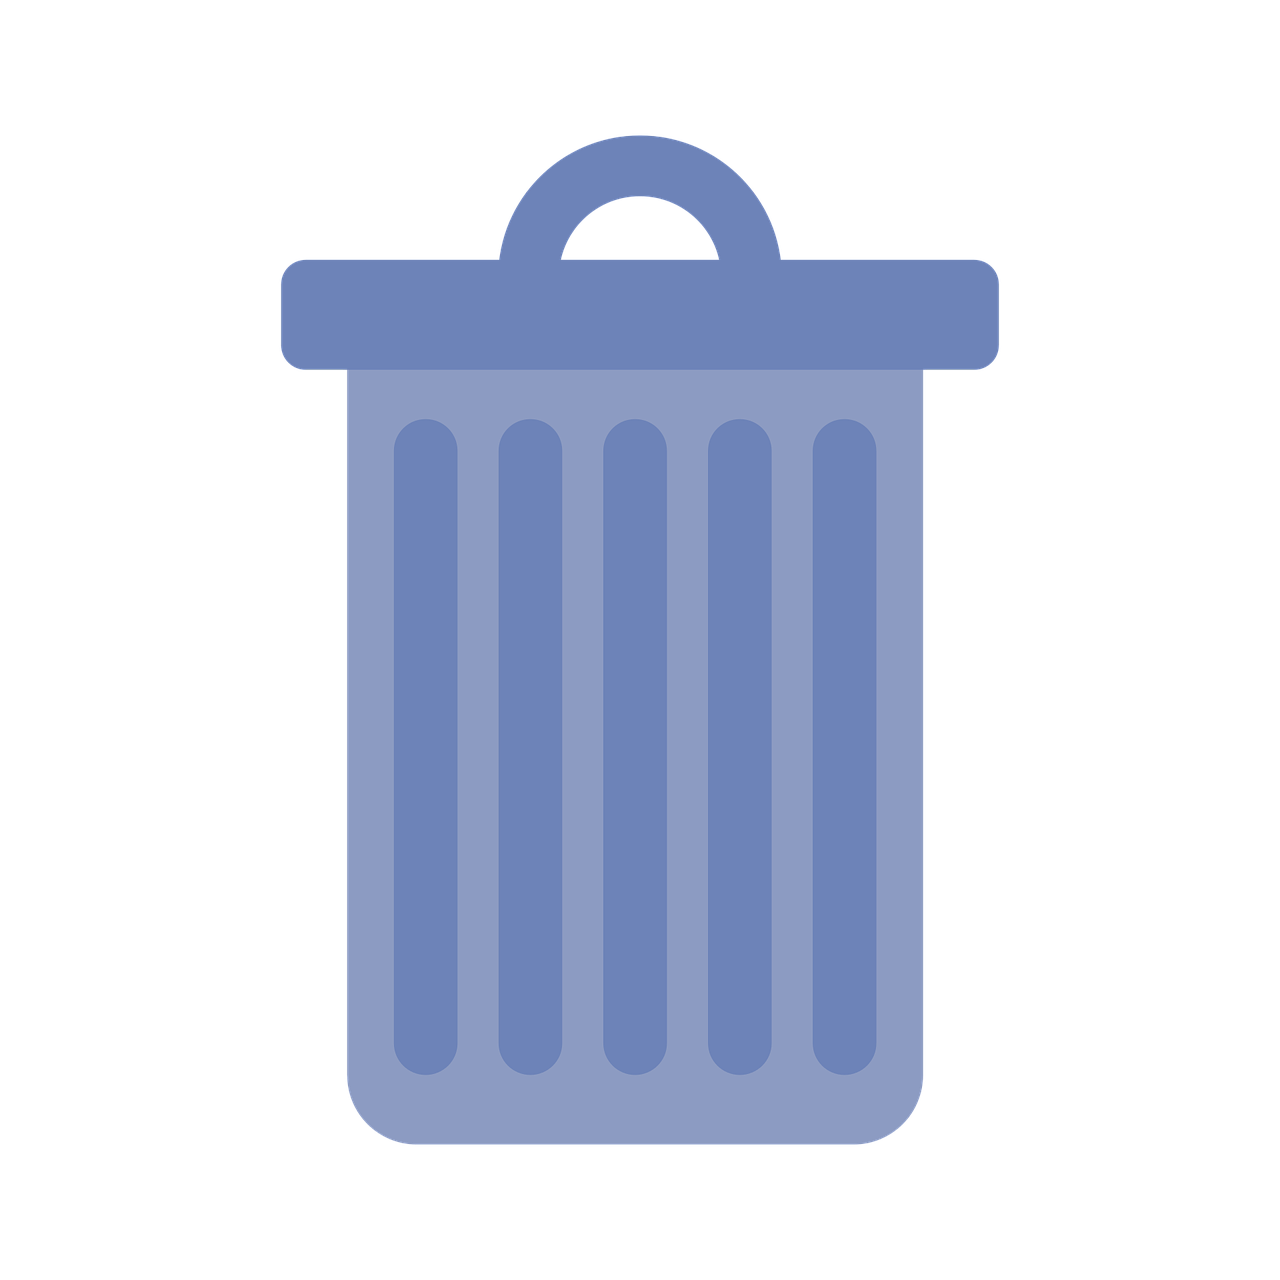
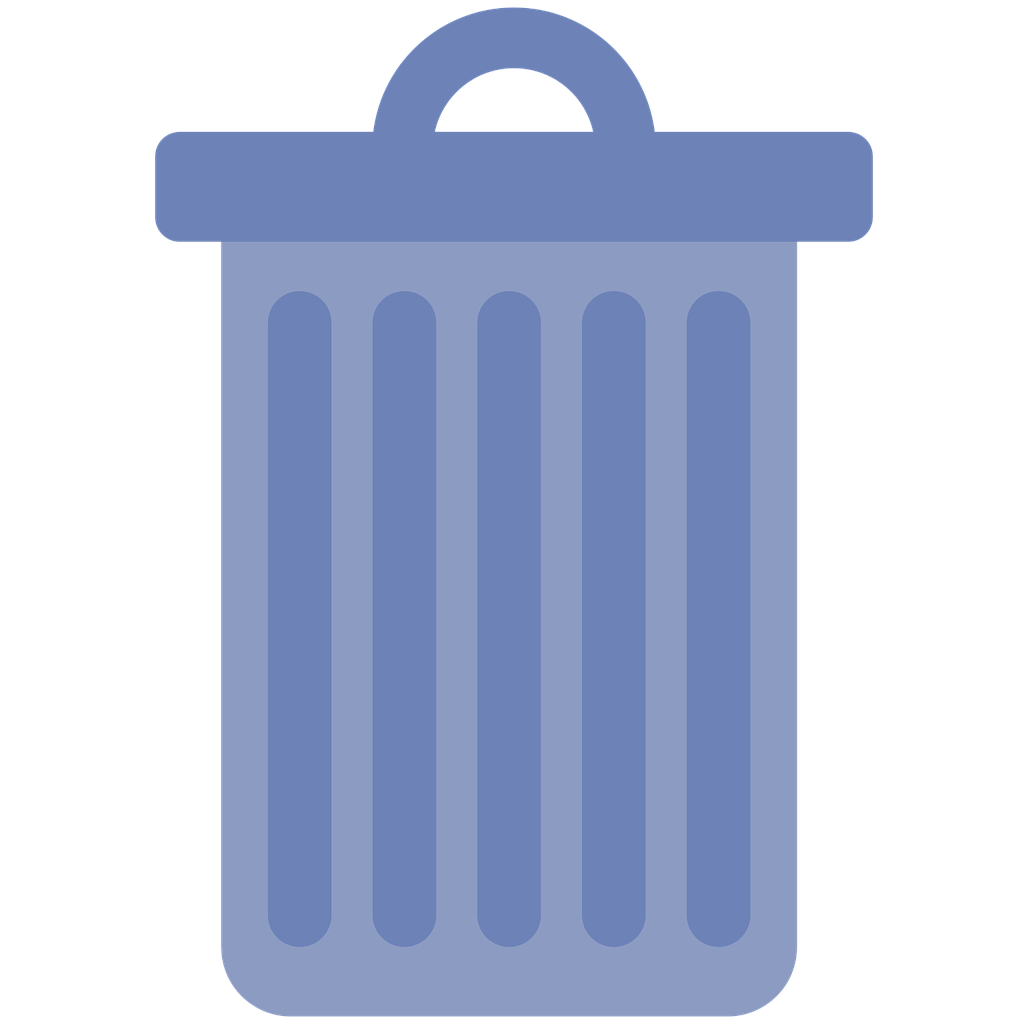
Fixes und Anpassungen
- fix: Richtige Benennung der Liga und Vereins Logos
- Neues Haken Symbol für checkboxen
- Augen Symbol
- Löschen Symbol vergrößert
- Error Symbol

diff --git a/css/liga.css b/css/liga.css
@@ -67,18 +67,6 @@
 }
 
 /* Platzierungen */
-#tabelle tr:nth-child(1) td:nth-child(1) {
-    border-left: 5px solid rgb(0, 115, 0);
-}
-
-#tabelle tr:nth-child(2) td:nth-child(1) {
-    border-left: 5px solid rgb(0, 165, 0);
-}
-
-#tabelle tr:nth-child(3) td:nth-child(1) {
-    border-left: 5px solid rgb(0, 215, 0);
-}
-
 #tabelle tr:nth-last-child(1) td:nth-child(1) {
     border-left: 5px solid rgb(150, 0, 0);
 }
@@ -89,6 +77,18 @@
 
 #tabelle tr:nth-last-child(3) td:nth-child(1) {
     border-left: 5px solid rgb(250, 0, 0);
+}
+
+#tabelle tr:nth-child(1) td:nth-child(1) {
+    border-left: 5px solid rgb(0, 115, 0);
+}
+
+#tabelle tr:nth-child(2) td:nth-child(1) {
+    border-left: 5px solid rgb(0, 165, 0);
+}
+
+#tabelle tr:nth-child(3) td:nth-child(1) {
+    border-left: 5px solid rgb(0, 215, 0);
 }
 
 /* Aside */
@@ -130,7 +130,7 @@ form {
     margin-bottom: .5em;
 }
 
-/* Vorschau wenn keine Liga ausgewählt ist => home.css */
+/* Vorschau wenn keine Liga ausgewählt ist */
 .liga_block_klein {
     display: block;
     height: 3em;

diff --git a/css/style.css b/css/style.css
@@ -299,17 +299,19 @@ input[type="number"] {
 }
 
 input[type="checkbox"] {
+    -webkit-appearance: none;
     width: 2em;
     min-width: unset;
     height: 2em;
+    border-width: 2px;
+    border-radius: 50%;
     background: #fff;
-    -webkit-appearance: none;
     cursor: pointer;
 }
 
 input[type="checkbox"]:checked {
-    background: url('/ligatabelle/img/haken.png') rgb(76, 153, 235) no-repeat;
-    background-size: 1.5em;
+    background: url('/ligatabelle/img/haken.png') no-repeat;
+    background-size: 2em;
     background-position: center;
 }
 

diff --git a/liga/verein/php/erstellen.php b/liga/verein/php/erstellen.php
@@ -13,20 +13,24 @@
         $vereinsname = $_POST['vereinsname'];
         $beschreibung = $_POST['vereinsbeschreibung']??'';
 
+        $eintrag = "INSERT INTO vereine (name, beschreibung, logo, erstelltVon)
+                    VALUES ('$vereinsname', '$beschreibung', 'keinLogo.png', $userId)";
+        $eintragen = mysqli_query($db, $eintrag);
+
+        $abfragen = mysqli_query($db, "SELECT vereinsId FROM vereine ORDER BY vereinsId DESC LIMIT 1");
+        $verein = mysqli_fetch_object($abfragen);
+        $vereinsId = $verein->vereinsId;
+
         $old_filename = 'keinLogo.png';
         $bild = $_FILES['vereinslogo'];
         $upload_folder = '../../../img/vereine/';
         $standartBild = 'keinLogo.png';
-        $abfrage = "SELECT * FROM vereine"; // Abfragen, welche die letzte vereinsId ist, damit das Logo den richtigen Namen bekommt
-        $abfragen = mysqli_query($db, $abfrage);
-        $filename = mysqli_num_rows($abfragen)+1;
+        $filename = $vereinsId;
         include_once('../../../inc/bild_upload.php');
 
         if (!$bildBearbeitet) $new_filename = 'keinLogo.png';
 
-        $eintrag = "INSERT INTO vereine (name, beschreibung, logo, erstelltVon)
-                    VALUES ('$vereinsname', '$beschreibung', '$new_filename', $userId)";
-        $eintragen = mysqli_query($db, $eintrag);
+        $update = mysqli_query($db, "UPDATE vereine SET logo = '$new_filename' WHERE vereinsId = $vereinId");
 
         $abfrage = "SELECT vereinsId FROM vereine WHERE erstelltVon = '$userId' ORDER BY vereinsId DESC LIMIT 1";
         $abfragen = mysqli_query($db, $abfrage);

diff --git a/liga/php/erstellen.php b/liga/php/erstellen.php
@@ -14,21 +14,24 @@
         $keywords = $_POST['keywords']??'';
         $beschreibung = $_POST['ligabeschreibung']??'';
 
+        $eintrag = "INSERT INTO ligen (name, beschreibung, logo, erstelltVon, keywords)
+                    VALUES ('$liganame', '$beschreibung', 'keinLogo.png', '$userId', '$keywords')";
+        $eintragen = mysqli_query($db, $eintrag);
+
+        $abfragen = mysqli_query($db, "SELECT ligaId FROM ligen ORDER BY ligaId DESC LIMIT 1");
+        $liga = mysqli_fetch_object($abfragen);
+        $ligaId = $liga->ligaId;
+
         $old_filename = 'keinLogo.png';
         $bild = $_SESSION['neueLiga']['ligalogo'];
         $upload_folder = '../../img/ligen/';
         $standartBild = 'keinLogo.png';
-        $abfrage = "SELECT * FROM ligen"; // Abfragen, welche die letzte ligaId ist, damit das Logo den richtigen Namen bekommt
-        $abfragen = mysqli_query($db, $abfrage);
-        $filename = mysqli_num_rows($abfragen)+1;
-        $ligaId = $filename;
+        $filename = $ligaId;
         include_once('../../inc/bild_upload.php');
 
         if (!$bildBearbeitet) $new_filename = 'keinLogo.png';
 
-        $eintrag = "INSERT INTO ligen (name, beschreibung, logo, erstelltVon, keywords)
-                    VALUES ('$liganame', '$beschreibung', '$new_filename', '$userId', '$keywords')";
-        $eintragen = mysqli_query($db, $eintrag);
+        $update = mysqli_query($db, "UPDATE ligen SET logo = '$new_filename' WHERE ligaId = $ligaId");
 
         for ($i=0; $i<count($_POST['vereine']); $i++) {
             $vereinsId = $_POST['vereine'][$i];

diff --git a/liga/index.php b/liga/index.php
@@ -177,8 +177,8 @@
 					}
 			?>
 						<div class="buttons">
-							<a href="verein/alle.php?liga=<?=$ligaId?>" class="btn" titel="Alle Vereine der Liga"><img src="" class="img_btn">Vereine</a>
-							<a href="spieltag/alle.php?liga=<?=$ligaId?>" class="btn" titel="Alle Spieltage mit Spielen der Liga"><img src="" class="img_btn">Spieltage und Spiele</a>
+							<a href="verein/alle.php?liga=<?=$ligaId?>" class="btn" titel="Alle Vereine der Liga"><img src="/ligatabelle/img/auge.png" class="img_btn">Vereine</a>
+							<a href="spieltag/alle.php?liga=<?=$ligaId?>" class="btn" titel="Alle Spieltage mit Spielen der Liga"><img src="/ligatabelle/img/auge.png" class="img_btn">Spieltage und Spiele</a>
 						</div>
 					</div>
 					<div id="letzterSpieltag">

diff --git a/error/404.php b/error/404.php
@@ -14,6 +14,7 @@
 	<body>
 		<?php include_once('../inc/header.php'); ?>
 		<div id="content">
+			<img src="/ligatabelle/img/error.png" style="margin:auto;height:calc(70vh - 6em - 3em - 4em);">
 			<p style="width:100%; font-family:Roboto; font-size:1em; text-align:center;"><span style="font-size:4em;">Error 404</span><br>
 			Die angeforderte Seite konnte leider nicht gefunden werden.<br>
 			<a href="/ligatabelle/index.php" title="Startseite">Hier</a> ist unsere Startseite</p>

diff --git a/error/403.php b/error/403.php
@@ -14,6 +14,7 @@
 	<body>
 		<?php include_once('../inc/header.php') ?>
 		<div id="content">
+			<img src="/ligatabelle/img/error.png" style="margin:auto;height:calc(70vh - 6em - 3em - 4em);">
 			<p style="width:100%; font-family:Roboto; font-size:1em; text-align:center;"><span style="font-size:4em;">Error 403</span><br>
 			Die angeforderte Seite kann leider nicht angezeigt werden.<br>
 			<a href="/ligatabelle/index.php" title="Startseite">Hier</a> ist unsere Startseite</p>

diff --git a/error/500.php b/error/500.php
@@ -14,6 +14,7 @@
 	<body>
 		<?php include_once('../inc/header.php') ?>
 		<div id="content">
+			<img src="/ligatabelle/img/error.png" style="margin:auto;height:calc(70vh - 6em - 3em - 4em);">
 			<p style="width:100%; font-family:Roboto; font-size:1em; text-align:center;"><span style="font-size:4em;">Error 500</span><br>
 			Die angeforderte Seite konnte leider nicht geladen werden.<br>
 			<a href="/ligatabelle/index.php" title="Startseite">Hier</a> ist unsere Startseite</p>
